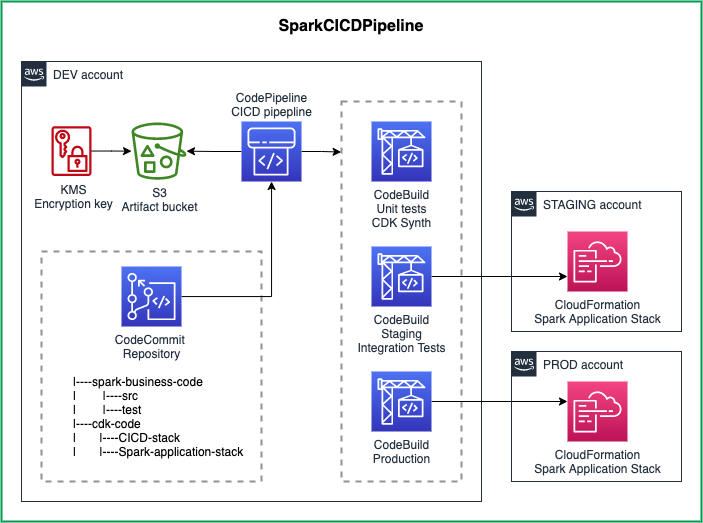
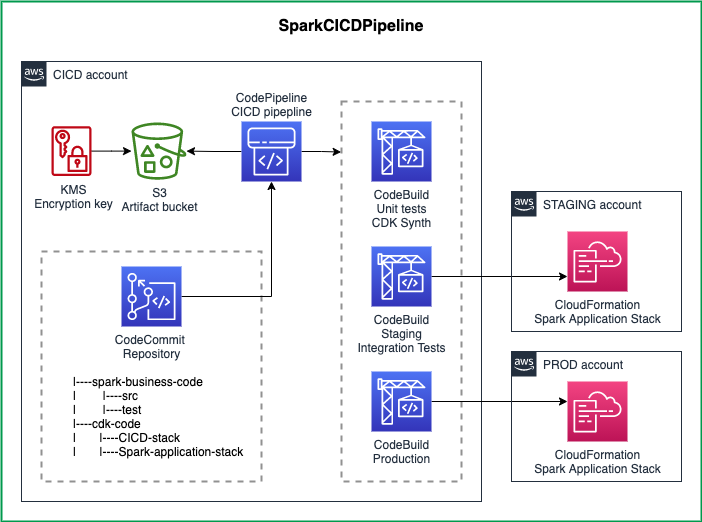
fix after review

diff --git a/website/docs/constructs/library/spark-cicd-pipeline.md b/website/docs/constructs/library/spark-cicd-pipeline.md
@@ -5,7 +5,7 @@ sidebar_label: Spark CICD Pipeline
 
 # Spark CICD Pipeline
 
-This construct creates a self-mutable CICD pipeline for a Spark application based on [Amazon EMR](https://aws.amazon.com/fr/emr/) runtime. 
+Self-mutable CICD pipeline for a Spark application based on [Amazon EMR](https://aws.amazon.com/fr/emr/) runtime. 
 
 ## Overview
 
@@ -13,20 +13,20 @@ The CICD pipeline uses [CDK Pipeline](https://docs.aws.amazon.com/cdk/v2/guide/c
  * A CodeCommit repository to host the code
  * A CodePipeline triggered from the main branch of the CodeCommit repository to process the CICD tasks
  * A CodeBuild stage to build the CDK assets and run the Spark unit tests
- * A Staging stage to deploy the application stack in the staging account and run optional integration tests
- * A Production stage to deploy the application stack in the production account
+ * A Staging stage to deploy the application stack in the staging environment and run optional integration tests
+ * A Production stage to deploy the application stack in the production environment
 
 
 ![Spark CICD Pipeline](../../../static/img/adsf-spark-cicd.png)
 
 ## Cross-account deployment
 
-You can use different accounts for dev (where this construct is deployed), staging and production (where the application stack is deployed). 
-If using different accounts, bootstrap staging and production accounts with CDK and add a trust relationship from the dev account:
+You can use the same account or optionally use different accounts for CICD (where this construct is deployed), staging and production (where the application stack is deployed). 
+If using different accounts, bootstrap staging and production accounts with CDK and add a trust relationship from the CICD account:
 ```bash
 cdk bootstrap \
   --profile staging \
-  --trust <DEV_ACCOUNT_ID> \
+  --trust <CICD_ACCOUNT_ID> \
   aws://<STAGING_ACCOUNT_ID>/<REGION>
 ```
 More information is available [here](https://docs.aws.amazon.com/cdk/v2/guide/cdk_pipeline.html#cdk_pipeline_bootstrap)
@@ -45,23 +45,30 @@ You need to also provide the accounts information in the cdk.json in the form of
 }
 ```
 
-## Passing a CDK Stack for the Spark application
+## Defining a CDK Stack for the Spark application
 
-The application stack is expected to be passed via a factory class. To do this, implement the `ApplicationStackFactory` and its `createStack()` method.
+The `SparkCICDPipeline` construct deploys an application stack, which contains your business logic, into staging and production environments.
+The application stack is a standard CDK stack that you provide. It's expected to be passed via a factory class. 
+
+To do this, implement the `ApplicationStackFactory` and its `createStack()` method.
 The `createStack()` method needs to return a `Stack` instance within the scope passed to the factory method.
 This is used to create the application stack within the scope of the CDK Pipeline stage.
-The `CICDStage` parameter is passed by the CDK Pipeline via the factory method and allows to customize the behavior of the Stack based on the stage.
-For example, staging stage is used for integration tests so there is no reason to create a cron based trigger but the tests would manually trigger the job.
+
+The `CICDStage` parameter is automatically passed by the CDK Pipeline via the factory method and allows you to customize the behavior of the Stack based on the stage.
+For example, staging stage is used for integration tests so testing a processing job should be done via manually triggering it. 
+In opposition to production stage where the processing job could be automated on a regular basis.
 
 Create your application stack using the factory pattern:
 
 ```python
 from adsf import ApplicationStackFactory, CICDStage
 
+
 class EmrApplicationStackFactory(ApplicationStackFactory):
 
   def create_stack(self, scope: Construct, stage: CICDStage) -> Stack:
     return EmrApplicationStack(scope, 'EmrApplicationStack', stage)
+
 
 class EmrApplicationStack(Stack):
 
@@ -77,6 +84,7 @@ Use the factory to pass your application stack to the `SparkCICDPipeline` constr
 from cdk.application_stack import EmrApplicationStackFactory
 from adsf import SparkCICDPipeline, SparkImage
 
+
 class CICDPipelineStack(Stack):
 
   def __init__(self, scope: Construct, id: str, **kwargs) -> None:
@@ -87,6 +95,7 @@ class CICDPipelineStack(Stack):
       application_stack_factory=EmrApplicationStackFactory()
     )
 ```
+
 ## Unit tests
 The construct triggers the unit tests as part of the CICD process using the EMR docker image and a fail fast approach. 
 The unit tests are run during the first build step and the entire pipeline stops if the unit tests fail.
@@ -105,8 +114,8 @@ spark = (
 ```
 
 ## Integration tests
-You can optionally run integration tests as part of the CICD process using the AWS CLI in a bash script that return 0 exit code if success and 1 if failure. 
-The integration tests are triggered after the deployment of the application stack in the staging environment. You can configure it via `integTestScript` path that should point to AWS CLI bash script. For example:
+You can optionally run integration tests as part of the CICD process using the AWS CLI in a bash script that return `0` exit code if success and `1` if failure. 
+The integration tests are triggered after the deployment of the application stack in the staging environment. You can run them via `integTestScript` path that should point to a bash script using the AWS CLI. For example:
 
 ```bash
 root
@@ -115,7 +124,7 @@ root
 |--cdk
 ```
 
-Integ.sh is a standard bash script using the AWS CLI to validate the application stack. In this example, the Step Function from the application stack is triggered and the result of its execution should be successful:
+`integ.sh` is a standard bash script using the AWS CLI to validate the application stack. In this script example, a Step Function from the application stack is triggered and the result of its execution should be successful:
 ```bash
 #!/bin/bash
 EXECUTION_ARN=$(aws stepfunctions start-execution --state-machine-arn $STEP_FUNCTION_ARN | jq -r '.executionArn')
@@ -134,34 +143,44 @@ done
 ```
 
 To use resources that are deployed by the Application Stack like the Step Functions state machine ARN in the previous example:
-1. Create a CfnOutput in your Application Stack with the value of your resource
+1. Create a `CfnOutput` in your application stack with the value of your resource
 
 ```python
-        # Outputs used by the CDK Pipeline stack to trigger the job
-        CfnOutput(self, "StepFunctionArn", value=emr_pipeline.state_machine_arn)
+class EmrApplicationStack(Stack):
+
+  def __init__(self, scope: Construct, construct_id: str, stage: CICDStage, **kwargs) -> None:
+    super().__init__(scope, construct_id, **kwargs)
+
+    # Outputs used by the CDK Pipeline stack to trigger the job
+    CfnOutput(self, "StepFunctionArn", value=emr_pipeline.state_machine_arn)
 ```
 
-2. Pass an environment variables to the `SparkCICDPipeline` construct in the form of a key/value pair via `integTestEnv`:
-  * Key is the name of the environment variable used in the script. In the example, `STEP_FUNCTION_ARN`.
-  * Value is the CloudFormation output name from the application stack. In the example, `StepFunctionArn`.
-  * Add permissions required to run the integration tests script. In the example, `states:StartExecution` and `states:DescribeExecution`.
+2. Pass an environment variable to the `SparkCICDPipeline` construct in the form of a key/value pair via `integTestEnv`:
+  * Key is the name of the environment variable used in the script. In the script example, `STEP_FUNCTION_ARN`.
+  * Value is the CloudFormation output name from the application stack. In the application stack example, `StepFunctionArn`.
+  * Add permissions required to run the integration tests script. In this example, `states:StartExecution` and `states:DescribeExecution`.
 
 ```python
-  SparkCICDPipeline(self, "SparkCICDPipeline",
-    application_name="SparkTest",
-    application_stack_factory=EmrApplicationStackFactory(),
-    integ_test_script='spark/integ.sh',
-    integ_test_env={
-      "STEP_FUNCTION_ARN": "StepFunctionArn",
-    },
-    integ_test_permissions=[
-      iam.PolicyStatement(
-        actions=[
-          "states:StartExecution",
-          "states:DescribeExecution"
-        ],
-        resources=['*']
+class CICDPipelineStack(Stack):
+
+  def __init__(self, scope: Construct, id: str, **kwargs) -> None:
+    super().__init__(scope, id, **kwargs)
+    
+    SparkCICDPipeline(self, "SparkCICDPipeline",
+      application_name="SparkTest",
+      application_stack_factory=EmrApplicationStackFactory(),
+      integ_test_script='spark/integ.sh',
+      integ_test_env={
+        "STEP_FUNCTION_ARN": "StepFunctionArn",
+      },
+      integ_test_permissions=[
+        iam.PolicyStatement(
+          actions=[
+            "states:StartExecution",
+            "states:DescribeExecution"
+          ],
+          resources=['*']
+      )
+      ]
     )
-    ]
-  )
 ```
